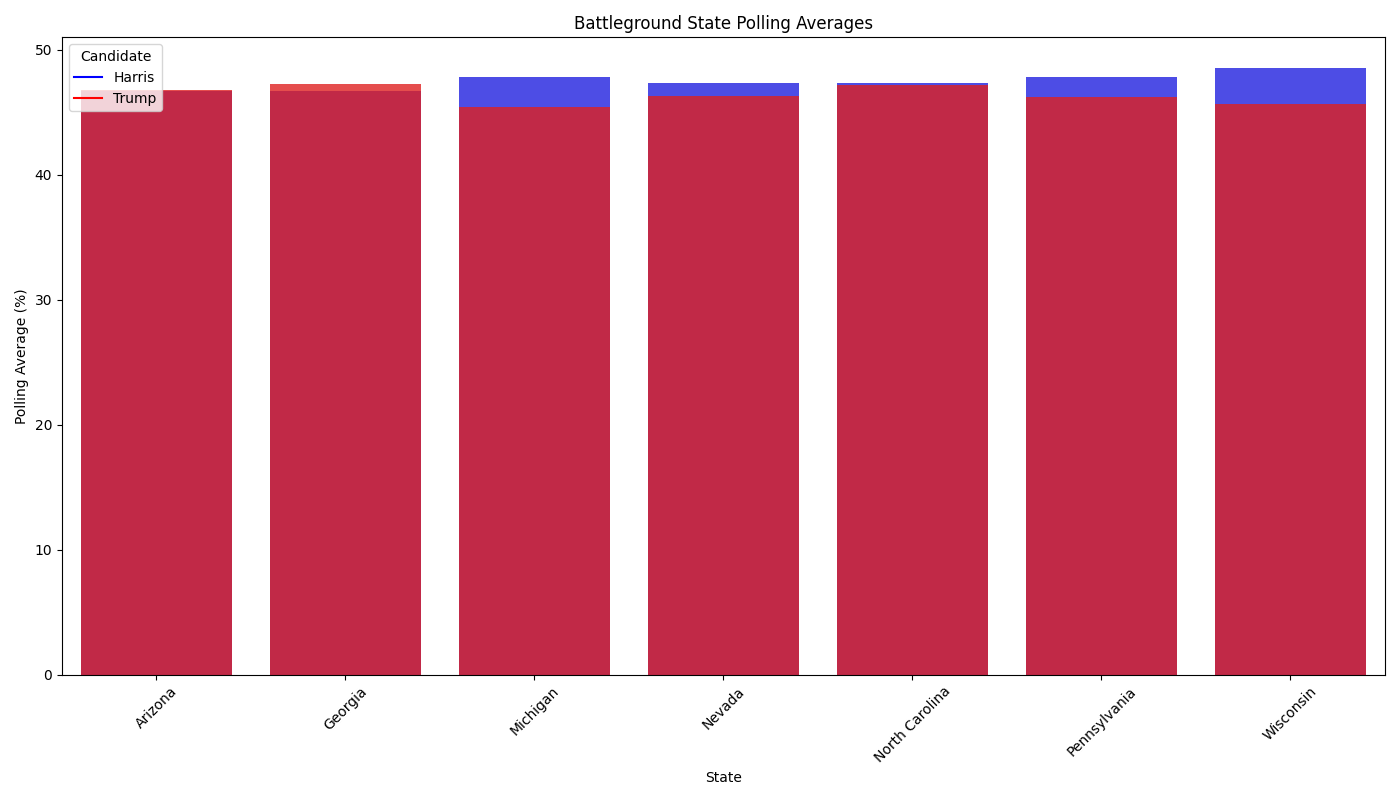
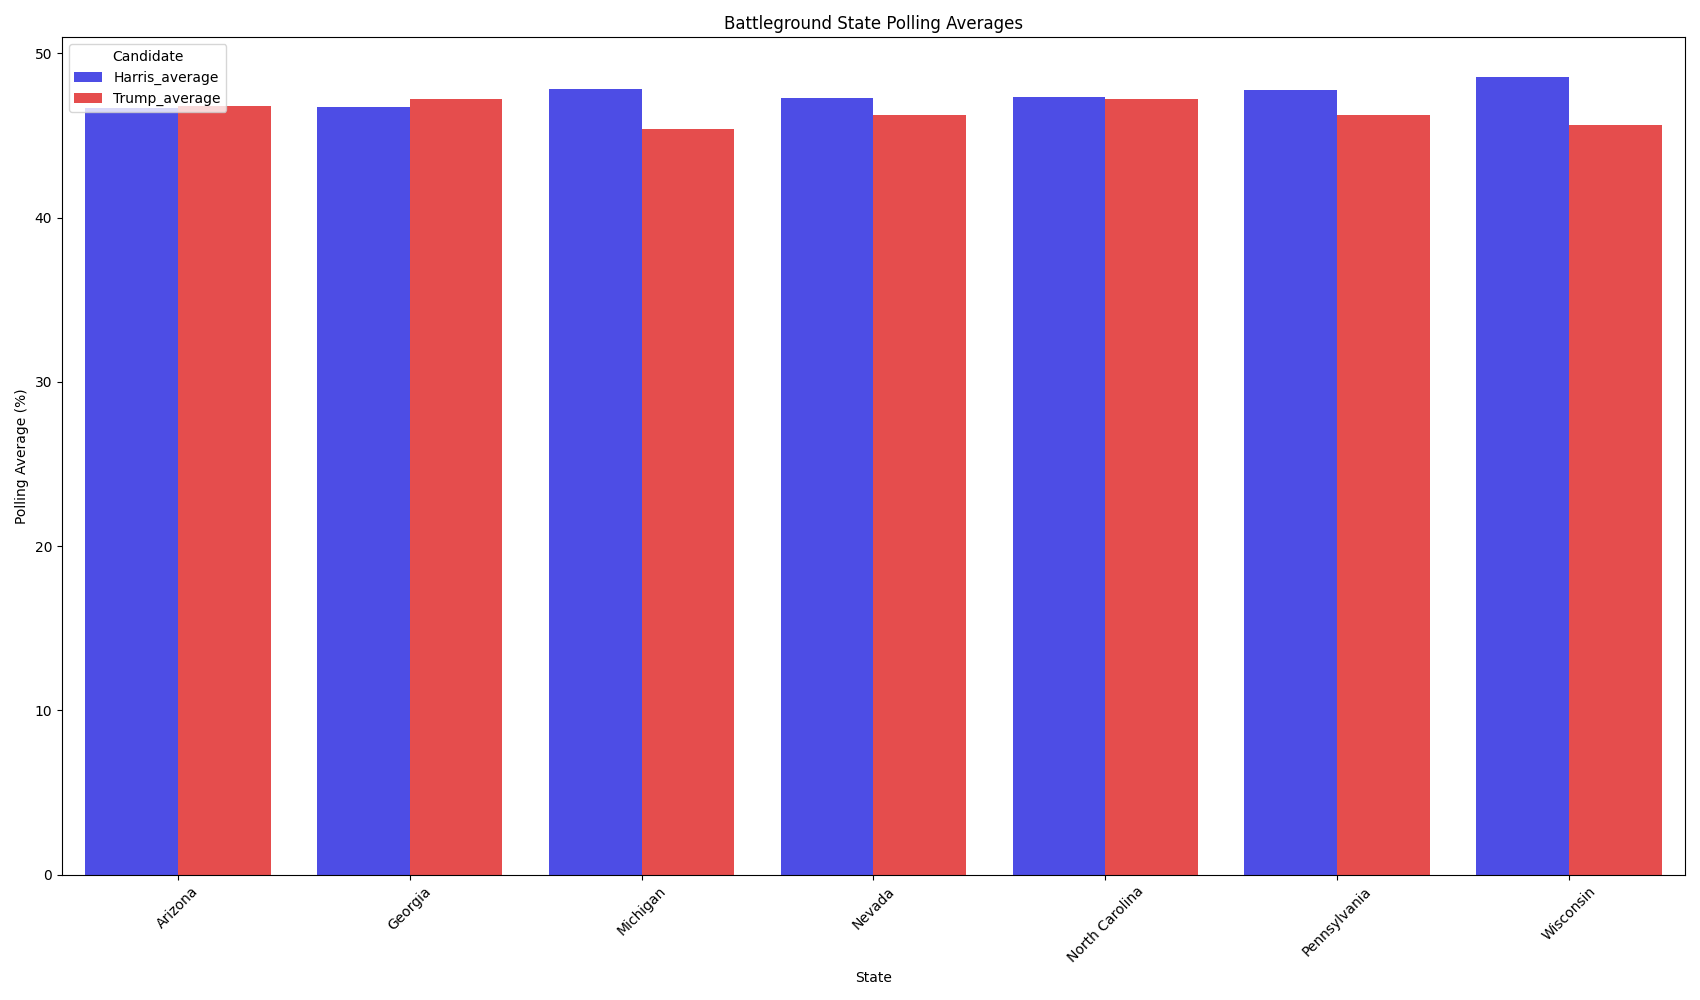
updated bar plotting visualization

diff --git a/plot.py b/plot.py
@@ -10,14 +10,24 @@ blue_patch = mlines.Line2D([], [], color='blue', label='Harris')
 red_patch = mlines.Line2D([], [], color='red', label='Trump')
 
 # Polling average bar plot
-plt.figure(figsize=(14, 8))
-sns.barplot(x="state", y="Harris_average", data=df, color="blue", alpha=0.8)
-sns.barplot(x="state", y="Trump_average", data=df, color="red", alpha=0.8)
+df_long = pd.melt(df, id_vars=['state'], value_vars=['Harris_average', 'Trump_average'],
+                  var_name='Candidate', value_name='Polling_Average')
+
+# Create the bar plot
+plt.figure(figsize=(17, 10))
+sns.barplot(x="state", y="Polling_Average", hue="Candidate", data=df_long,
+            palette={"Harris_average": "blue", "Trump_average": "red"}, alpha=0.8)
+
+# Add title and labels
 plt.title("Battleground State Polling Averages")
 plt.ylabel("Polling Average (%)")
 plt.xlabel("State")
 plt.xticks(rotation=45)
-plt.legend(handles=[blue_patch, red_patch], loc="upper left", title="Candidate")
+
+# Add legend
+plt.legend(title="Candidate", loc="upper left")
+
+# Adjust layout and save plot
 plt.tight_layout()
 plt.savefig("images/polling_bar.png")
 

diff --git a/README.md b/README.md
@@ -10,6 +10,8 @@ Data obtained from [FiveThirtyEight](https://projects.fivethirtyeight.com/polls/
 
 - [x] Clean data
 - [ ] Visualize data
+  - [x] Polling data
+  - [ ] Comparison to election results
 - [ ] Create shiny app
 
 ## Local Setup (WIP)
